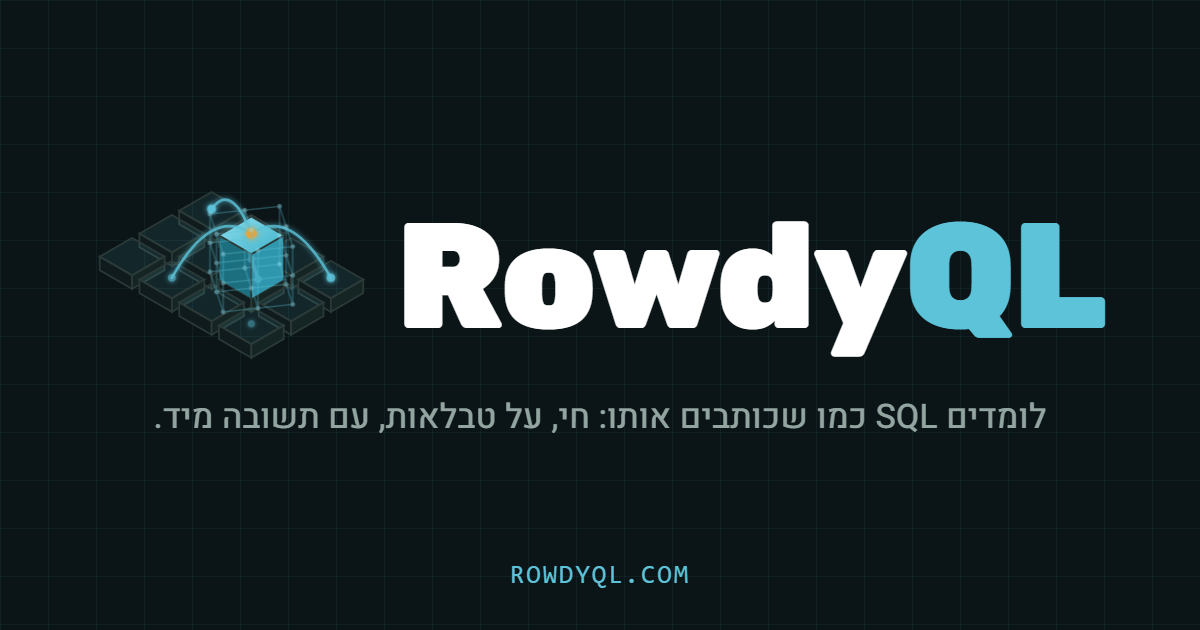
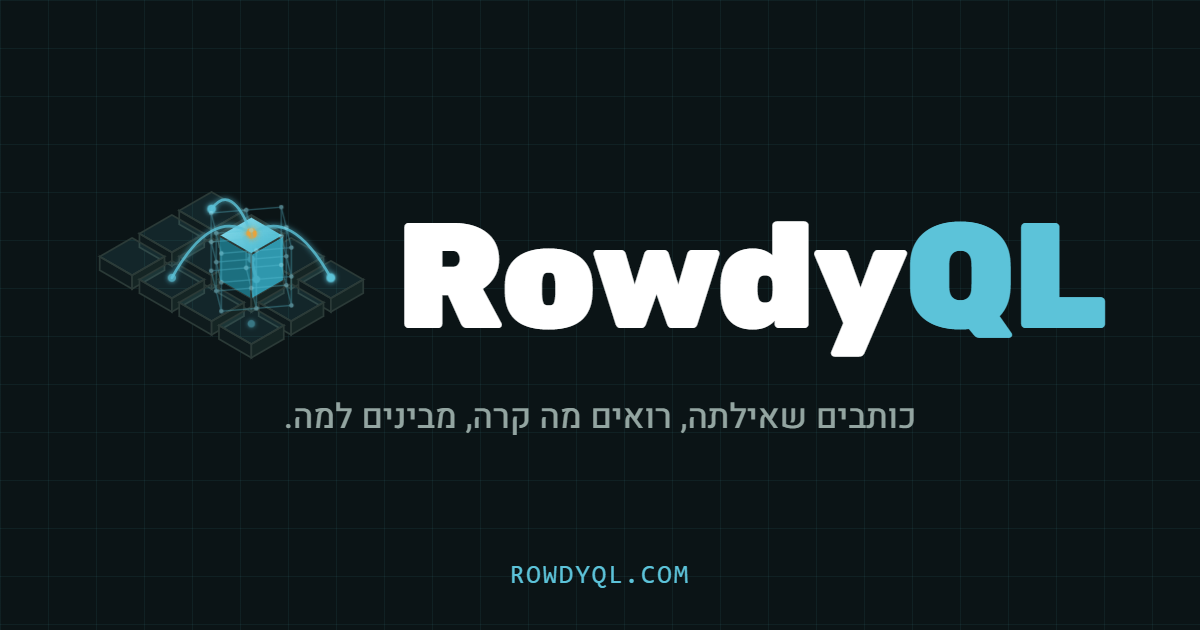
Landing copy refresh + saved-progress popup for returning users
Headline "כותבים שאילתה, רואים מה קרה, מבינים למה." (HE/EN), welcome
paragraph with exam- and interview-level questions, og image and
og:description updated. Returning users (second login on) get a
once-a-day popup that progress is saved, with a synced "don't show
again" preference (dbs_prefs).

Changed region(s): [[0.1233, 0.6333, 0.8633, 0.6937], [0.2158, 0.3921, 0.2467, 0.4825]]

diff --git a/og-src.html b/og-src.html
@@ -29,7 +29,7 @@ body{margin:0;width:1200px;height:630px;background:#0B1416;color:#E6EEEC;font-fa
 .wm{font-family:Rubik,sans-serif;font-weight:900;font-size:150px;letter-spacing:-.02em;color:#fff}.wm i{font-style:normal;color:#5CC3D9}
 .tag{position:relative;margin-top:26px;font-size:34px;color:#93A5A1;text-align:center}
 .url{position:absolute;bottom:40px;left:0;right:0;text-align:center;font:500 26px "IBM Plex Mono",Consolas,monospace;color:#5CC3D9;letter-spacing:.08em}
-</style></head><body><div class="grid"></div><div><div class="logo"><svg class="mark" data-holo aria-hidden="true"></svg><span class="wm">Rowdy<i>QL</i></span></div><div class="tag">לומדים SQL כמו שכותבים אותו: חי, על טבלאות, עם תשובה מיד.</div></div><div class="url">ROWDYQL.COM</div><script>
+</style></head><body><div class="grid"></div><div><div class="logo"><svg class="mark" data-holo aria-hidden="true"></svg><span class="wm">Rowdy<i>QL</i></span></div><div class="tag">כותבים שאילתה, רואים מה קרה, מבינים למה.</div></div><div class="url">ROWDYQL.COM</div><script>
 /* ==HOLO== the mark, generated: isometric grid, the cell that rises out of its socket, and the rotating hologram lattice */
 const HOLO = (() => {
   const CO = Math.cos(Math.PI / 6), SI = Math.sin(Math.PI / 6);

diff --git a/build.py b/build.py
@@ -11,7 +11,7 @@ html = f"""<!doctype html>
 <title>{title}</title>
 <meta name="description" content="RowdyQL: סביבת לימוד אינטראקטיבית לקורס תכנון בסיסי נתונים">
 <link rel="icon" type="image/svg+xml" href="favicon.svg">
-<meta property="og:type" content="website"><meta property="og:title" content="RowdyQL"><meta property="og:description" content="לומדים SQL כמו שכותבים אותו: חי, על טבלאות, עם תשובה מיד."><meta property="og:url" content="https://rowdyql.com/"><meta property="og:image" content="https://rowdyql.com/og.png"><meta name="twitter:card" content="summary_large_image">
+<meta property="og:type" content="website"><meta property="og:title" content="RowdyQL"><meta property="og:description" content="כותבים שאילתה, רואים מה קרה, מבינים למה."><meta property="og:url" content="https://rowdyql.com/"><meta property="og:image" content="https://rowdyql.com/og.png"><meta name="twitter:card" content="summary_large_image">
 <style>:root{{color-scheme:light dark}}body{{margin:0}}img{{max-width:100%}}[hidden]{{display:none!important}}</style>
 </head>
 <body>
